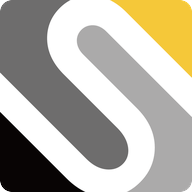
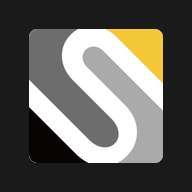
fix: PWA 앱 이름 변경 및 아이콘 여백 추가, 모바일 요약바 반응형 개선
- 앱 이름: 서블리원 → 아크릴 주문제작
- 아이콘 safe zone 여백 추가 (maskable 잘림 방지)
- 모바일 주문 요약바 세로 배치로 잘림 해결

diff --git a/src/templates/calculator.html b/src/templates/calculator.html
@@ -660,7 +660,8 @@ function resetOrder() {
 /* 주문 요약 바 */
 .order-summary-bar {
     display: flex;
-    justify-content: space-between;
+    flex-wrap: wrap;
+    gap: 8px 16px;
     padding: 14px 20px;
     background: #fffbf0;
     border: 2px solid #F4B900;
@@ -674,6 +675,20 @@ function resetOrder() {
 .order-summary-bar span {
     display: flex;
     align-items: center;
+    white-space: nowrap;
+}
+
+@media (max-width: 480px) {
+    .order-summary-bar {
+        flex-direction: column;
+        gap: 6px;
+        padding: 12px 16px;
+        font-size: 13px;
+    }
+    .btn-back {
+        font-size: 13px;
+        padding: 8px 12px;
+    }
 }
 
 /* 헤더 하단 구분선 */
